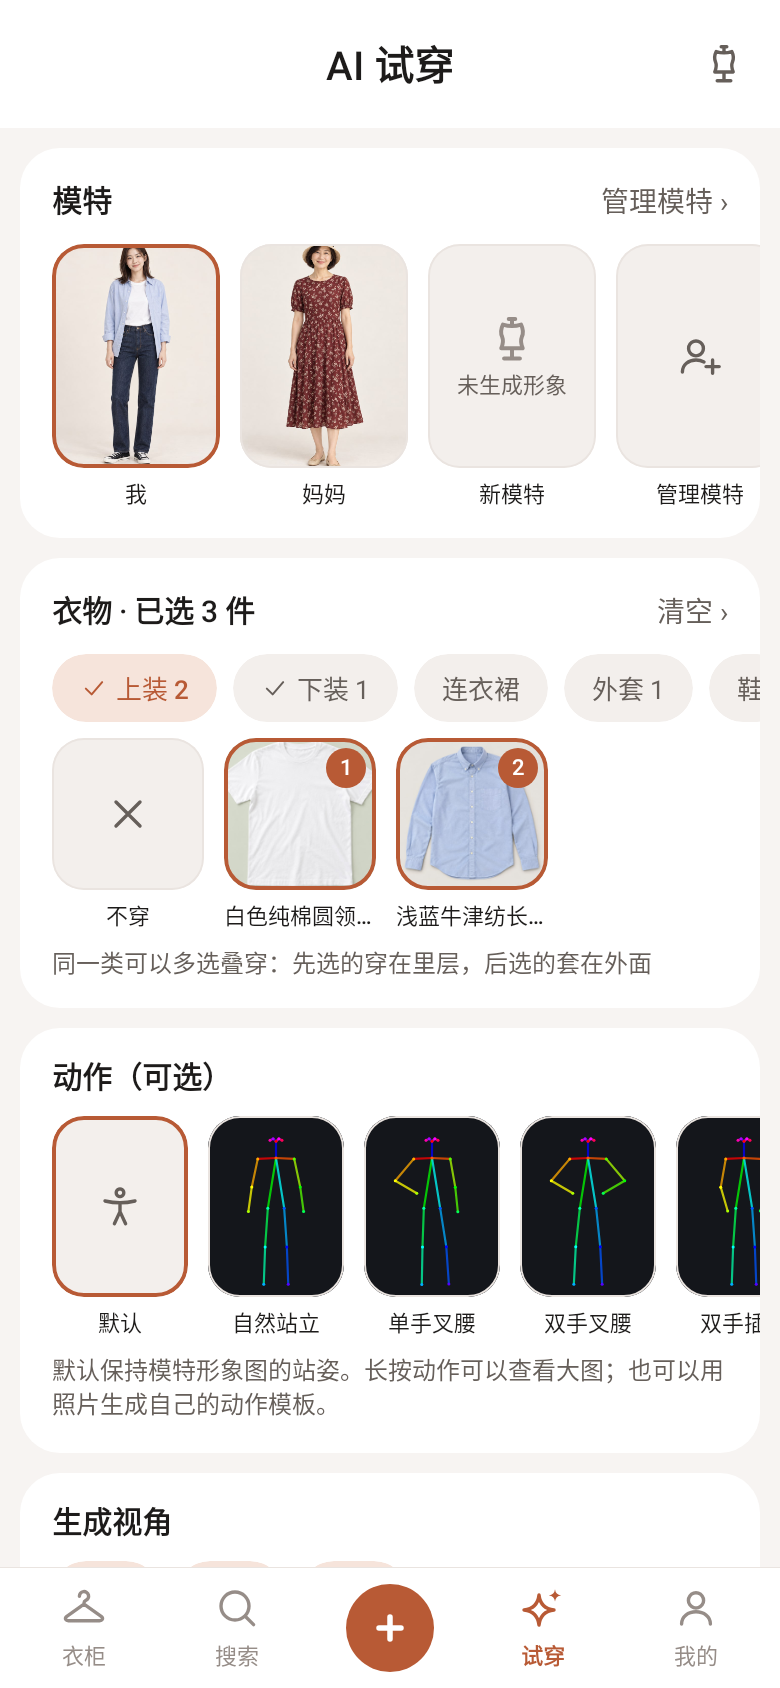
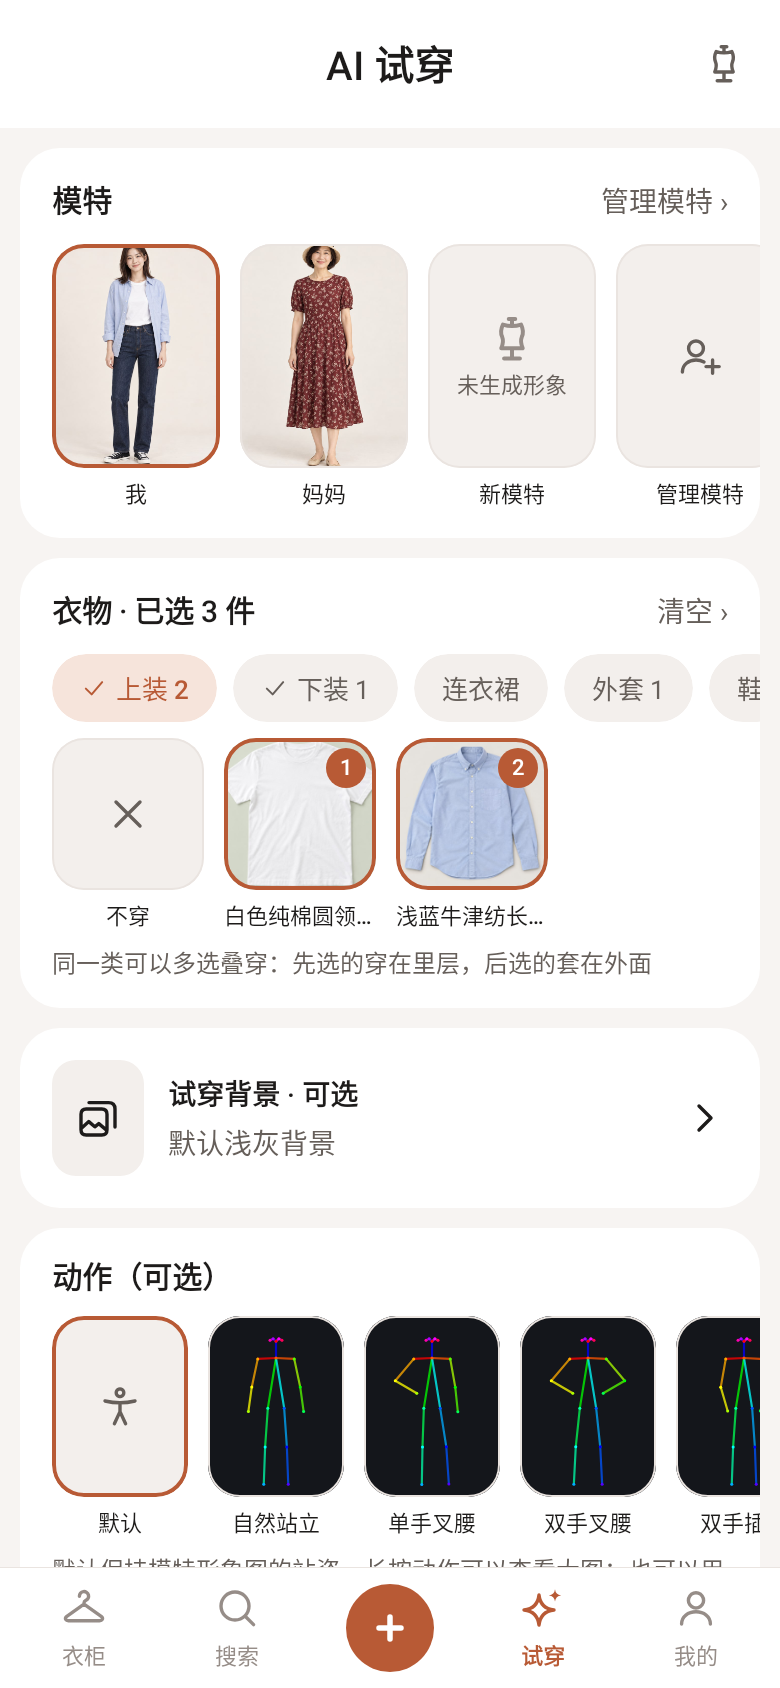
背景功能展示与自动发布部署（v1.0.14） (#1)
公开发布校验通过的 v1.0.14 APK，更新真实界面、背景功能与隐私说明；合并重复构建并采用官方 Pages 自动部署。

Changed region(s): [[0.0615, 0.6161, 0.9846, 0.955], [0.4308, 0.9242, 0.4923, 0.955]]

diff --git a/src/lib/screens.ts b/src/lib/screens.ts
@@ -7,7 +7,7 @@ import tryOn from '../assets/screens/try-on.png'
 import me from '../assets/screens/me.png'
 import drawer from '../assets/screens/drawer.png'
 import addSheet from '../assets/screens/add-sheet.png'
-import form from '../assets/screens/form.png'
+import backgrounds from '../assets/screens/backgrounds-light.png'
 import wardrobeDark from '../assets/screens/wardrobe-dark.png'
 import wardrobeDynamic from '../assets/screens/wardrobe-dynamic.png'
 import meDark from '../assets/screens/me-dark.png'
@@ -31,7 +31,7 @@ export const screens = {
   me: { src: me, bar: paper },
   drawer: { src: drawer, bar: `linear-gradient(90deg, #FFFFFF 0 76.9%, ${scrim} 76.9%)` },
   addSheet: { src: addSheet, bar: scrim },
-  form: { src: form, bar: paper },
+  backgrounds: { src: backgrounds, bar: scrim },
   wardrobeDark: { src: wardrobeDark, bar: '#120E0C', dark: true },
   wardrobeDynamic: { src: wardrobeDynamic, bar: '#EEEDF4' },
   meDark: { src: meDark, bar: '#120E0C', dark: true },

diff --git a/src/styles/global.css b/src/styles/global.css
@@ -308,7 +308,7 @@ h3 {
 /* ---------------------------------------------------------------- 入场动画 */
 
 @media (prefers-reduced-motion: no-preference) {
-  .reveal {
+  .js-reveal .reveal {
     opacity: 0;
     translate: 0 24px;
     transition:
@@ -317,7 +317,7 @@ h3 {
     transition-delay: var(--delay, 0s);
   }
 
-  .reveal.shown {
+  .js-reveal .reveal.shown {
     opacity: 1;
     translate: 0 0;
   }

diff --git a/README.md b/README.md
@@ -30,7 +30,7 @@
 | `/changelog/` | 最近 3 个版本，再往前的收在“更多版本”里 |
 | `/privacy/` | 隐私政策，和应用里的一致 |
 
-首页的界面截图跟着滚轮走：往下滚时横向滑动，滑到最后一张再继续往下。深色模式跟随系统。没有用前端框架，样式都在 `src/styles/global.css`。
+首页的界面截图跟着滚轮走：往下滚时横向滑动，滑到最后一张再继续往下。深色模式跟随系统。没有客户端 UI 框架；共享样式在 `src/styles/global.css`，页面局部样式跟随各 Astro 页面。禁用脚本时正文仍可见。
 
 ## 本地跑
 
@@ -39,7 +39,9 @@ Node.js 22.12 以上。
 ```bash
 npm ci
 npm run dev       # http://localhost:4321/wardrobe-website/
-npm run deploy    # 构建，推到 gh-pages 分支，Pages 从那里发布
+npm run check     # 发布工具单元测试
+npm run build     # 构建并检查本地链接与图片
+npm run deploy    # 仅手动重试远端部署；日常 push main 自动部署
 ```
 
 ## 发新版
@@ -47,12 +49,15 @@ npm run deploy    # 构建，推到 gh-pages 分支，Pages 从那里发布
 应用打好正式包之后：
 
 ```bash
-npm run release -- 1.0.7 --apk wardrobe-1.0.7.apk --notes v1.0.7.md --summary "一句话摘要"
-git add src/content/releases && git commit -m "发布 v1.0.7" && git push
-npm run deploy
+npm run release -- 1.0.14 --source-repo nix18/clothes-app-workspace --summary "一句话更新摘要"
+git add src/content/releases && git commit -m "发布 v1.0.14" && git push
 ```
 
-`release` 把安装包传到 Releases（说明末尾附 SHA-256），再写一份 `src/content/releases/v1.0.7.md`。更新说明里的“## 下载”一节会被去掉，其他想去掉的小节用 `--drop 标题`。首页、下载页、更新日志都从这些文件读版本。
+`release` 从应用 Release 下载 APK 并核对来源 SHA-256，先上传公开草稿并核对资源大小与哈希，再发布、写入 `src/content/releases/v1.0.14.md`。同版本换包须显式 `--replace`，新版本不覆盖旧资源。更新说明里的“## 下载”一节会被去掉，其他可用 `--drop 标题`。
+
+站点 main 推送后，`.github/workflows/pages.yml` 检查工具、构建并检查本地链接与图片，再使用 GitHub Pages 官方部署。Pages 的来源设为 **GitHub Actions**，`github-pages` 环境的分支保护规则允许 `main`；从旧分支部署迁移时也要更新此规则。不再本地构建或强推 gh-pages。PR 只检查和构建，不部署。
+
+发布完核对公开 APK 的 SHA-256、在线下载页、更新日志和实际版本；CI 绿色只表示构建结束，不能代替在线验证。
 
 ## 图片
 

diff --git a/src/content/releases/v1.0.14.md b/src/content/releases/v1.0.14.md
@@ -1,0 +1,34 @@
+---
+version: '1.0.14'
+date: 2026-11-05T05:56:15.676Z
+size: 90784095
[1 lines of base64/hex data omitted]
+summary: "可选试穿背景：内置影棚或从照片提取，三视角一次完成换装、动作与场景；完善检索、图片保存和发布流程。"
+---
+
+## 新增
+
+- **可选试穿背景**：暖白影棚、柔灰墙面、奶油拱廊、日光窗边四个内置模板；也可从照片提取空背景，或直接保存已有空场景。
+- 背景支持预览、改名、删除、备份与同步。创建时只提取一次，之后重复使用；提取任务支持后台排队、取消与重试。
+- 试穿记录记住背景，“重新试穿”沿用原选择。
+
+## 优化
+
+- 换装、动作与背景在同一次试穿生成中完成，人物不增加编辑轮次。三视角共用场景，固定相机和光源，只让人物原地转身。
+- 统一参考图名额分配，多件衣物必要时本地拼图；名额不足明确提示，不静默丢掉动作或背景。
+- 场景拼图按等宽分栏保留原像素，避免将树木、建筑当成人物裁切或拉伸。
+- 网站更新真实界面截图、背景介绍及隐私说明；检查移动端、桌面和深色显示。PR CI 合并重复构建，网站推送后自动部署。
+
+## 修复
+
+- 启动清理可能误删照片动作原图：现在统一保留所有被衣物、模特、试穿、动作和背景引用的图片。
+- 照片动作背面可能左右反转或把胸前的手移到背后：明确身体左右与遮挡关系。
+- 搜索取消、清空或输入变化后，旧请求可能覆盖新结果；远程向量慢响应可能覆盖新标签或复活已删除索引。
+- 美颜提示词强制浅灰背景与选定场景冲突；并发调用日志时间格式化不安全。
+
+## 删除
+
+- 移除网站中混合不同设置的组件演示截图，改用实际背景选择界面。
+- 删除同一 PR 的 push/PR 重复 CI、独立截图重复构建，以及网站本地重复构建、强推 gh-pages 的部署步骤。
+
+背景和动作照片在使用相关 AI 功能时发送到你配置的服务；内置背景预览和空场景直接保存无需 AI。旧动作没有保存原图时仍需从原照片重新创建。

diff --git a/src/data/privacy.md b/src/data/privacy.md
@@ -1,6 +1,6 @@
 # 小衣柜隐私政策
 
-更新日期：2026 年 10 月 8 日
+更新日期：2026 年 11 月 5 日
 运营者：Yujia Kang（个人开发者）
 联系方式：<span data-mail="kyj20167|gmail.com">kyj20167 [at] gmail.com</span>
 
@@ -10,7 +10,8 @@
 
 - 衣物：你拍摄或导入的衣物照片，以及名称、类别、风格、标签、品牌、尺码、价格、备注等。
 - 模特：名称、身高、体重、三围等身材数据，你上传的人物照片，以及 AI 生成的模特形象图。
-- 试穿记录：AI 生成的试穿图及其使用的衣物、模特、动作。
+- 试穿记录：AI 生成的试穿图及其使用的衣物、模特、动作和背景。
+- 动作与背景模板：动作来源照片、空场景照片、提取前的来源照片及你填写的名称；可在模板预览中删除。
 - AI 服务配置：服务地址、模型名称与 API 密钥。API 密钥用 Android Keystore 加密保存，不会被同步或备份。
 - 云同步配置：WebDAV / FTP 的地址与账号（密码加密保存），或谷歌账号的授权状态。
 
@@ -20,7 +21,7 @@
 
 只有在你使用对应功能时，相关信息才会离开设备：
 
-- AI 服务：识别衣物标签、理解搜索文字、以图查重、生成模特形象与试穿图时，相关照片、文字与身材数据会发送到你自己配置的 AI 服务商（例如通义千问、豆包、OpenAI 等）。这些数据由该服务商按其隐私政策处理，运营者无法获取。请只使用你本人的照片，或在取得照片中本人同意后再使用他人照片。
+- AI 服务：识别衣物标签、理解搜索文字、以图查重、提取空背景、生成模特形象与试穿图时，相关照片、文字与身材数据会发送到你自己配置的 AI 服务商（例如通义千问、豆包、OpenAI 等）。这些数据由该服务商按其隐私政策处理，运营者无法获取。请只使用你本人的照片，或在取得照片中本人同意后再使用他人照片。
 - 云同步：开启后，衣物、模特、试穿记录等数据与照片会上传到你指定的 WebDAV / FTP 服务器，或你的谷歌云盘中仅本应用可见的专属文件夹。
 
 ## 三、第三方组件
